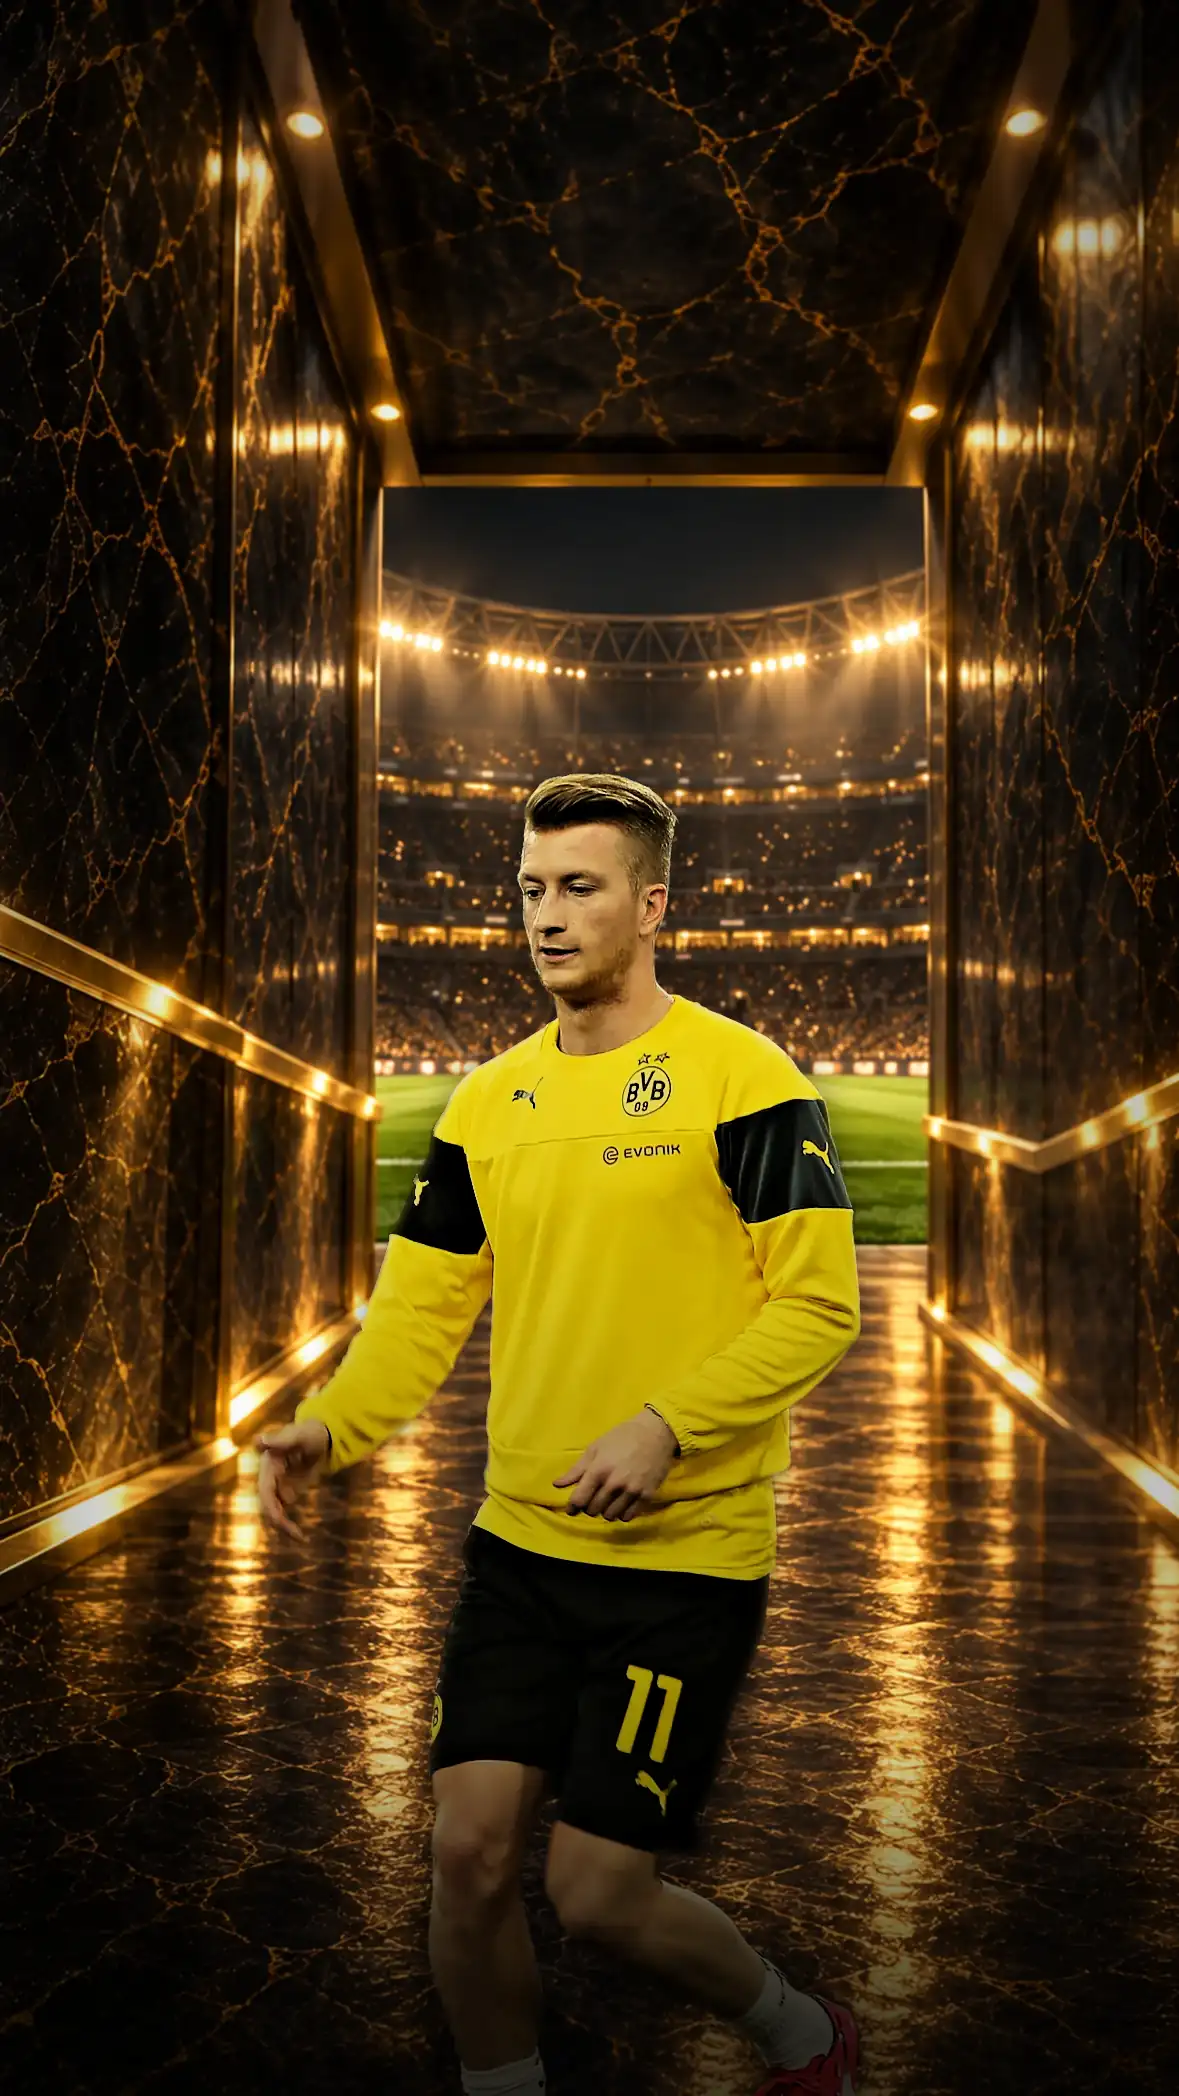
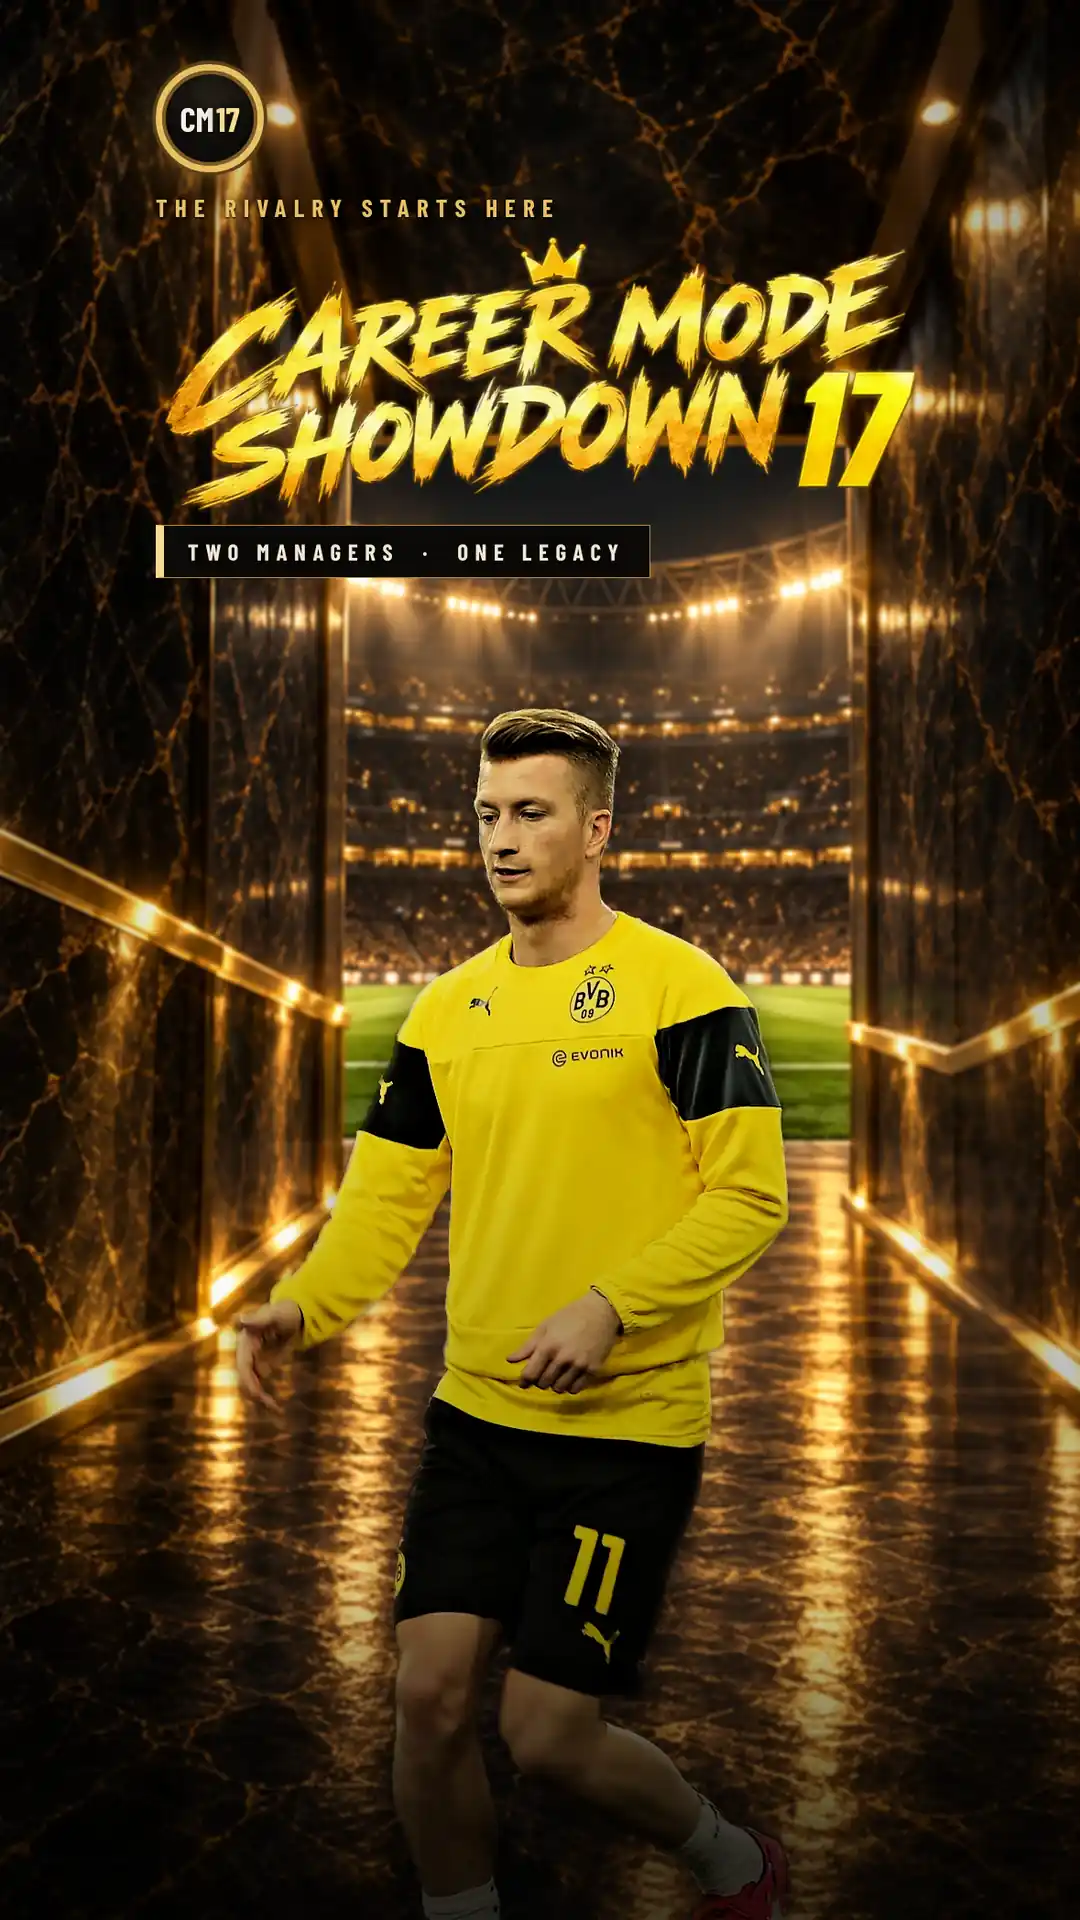
r78 loading: HO-030 v3 (title baked into the pictures, both under 95,000 B)
Fit Team V's v3 kit (factory/v1-wtt5ye @ 37746ac5): new desktop
(93,674 B) and phone (93,792 B, 1080x1920) pictures with the title block
baked in, .startupIdentity markup removed, portrait picture up to 7:5
(<source> and preloads), slim CSS v3 (1,430 B gzip). Startup gzip 37,071.

Test pins (title now lives in the picture; intent kept: the title shows
and is never cut or covered):
- loading-first-paint-audit / loading-visual-audit: measure the baked
  title box through object-fit/object-position instead of the old h1,
  roundel, kicker and edition; windowed 940x700 now shows the whole
  portrait picture (contain).
- offline-hotfix-contracts: wordmark-ratio pin becomes the v3 crop rule
  that keeps the baked title whole.
- v10-home-contracts test 8: <source> media 7/5.

Claude-Session: https://claude.ai/code/session_01S7YvhXS4sKBu2Nd5WxLWNf

diff --git a/css/app.css b/css/app.css
@@ -44,7 +44,7 @@ main{flex:1 1 auto;min-height:0;overflow-y:auto;overscroll-behavior:contain;disp
 .screen>h2{width:min(1040px,94vw);margin:0 auto 17px;padding:10px 16px 8px 20px;color:var(--f17-ink);background:rgba(247,249,249,.96);border-left:6px solid var(--f17-yellow);box-shadow:var(--f17-shadow-soft);font:800 clamp(28px,3.1vw,40px)/.9 var(--f17-display);letter-spacing:-.4px;text-align:left;text-transform:uppercase;}
 footer{flex:0 0 auto;min-height:33px;padding:7px 22px;color:#d7dfe4;background:linear-gradient(90deg,#252e35,#354149);border-top:2px solid rgba(240,217,0,.78);font-size:9px;line-height:1.2;letter-spacing:.55px;}
 
-@font-face{font-family:Startup;src:url(../visual-assets/v10_1/shared/fonts/barlow-condensed-latin-700-normal.woff2) format("woff2");font-weight:700;font-display:block}#loadingScreen{--k:max(100cqw/1920,100cqh/1080);--s:100cqh/1080;--fx:.25;--col:calc(var(--k)*1170 - (var(--k)*1920 - 100cqw)*var(--fx));--g:#e8c065;--h:#f6dc94;--i:#f1e9d6;position:fixed;inset:0;z-index:100;overflow:hidden;container-type:size;color:var(--i);font:700 14px/1.2 Startup,"Arial Narrow",Arial,sans-serif;white-space:nowrap;background:#0a0806;text-shadow:0 1px 2px #000,0 0 14px #000c;transition:opacity .24s}#loadingScreen.is-exiting{opacity:0;pointer-events:none}.startupScene,.startupAthleteFrame,#startupAthlete{position:absolute;inset:0}.startupAthleteFrame{background:linear-gradient(104deg,#18120b 48%,#0b0907 58%)}#startupAthlete{width:100%;height:100%;max-width:none;object-fit:cover;object-position:calc(var(--fx)*100%) 0}.startupIdentity,.startupStatus,.startupSaveNote,.startupPhotoCredit{position:absolute;z-index:5;left:var(--col)}.startupIdentity{top:calc(var(--s)*196);width:min(var(--s)*660,100cqw - var(--col) - 3cqw);display:grid;grid-template-columns:auto 1fr;grid-template-areas:"r r" "k k" "t t" "e e";justify-items:start;align-items:center;column-gap:12px}.startupRoundel{grid-area:r;box-sizing:border-box;width:max(40px,var(--s)*96);aspect-ratio:1;display:flex;align-items:center;justify-content:center;gap:.06em;border-radius:50%;border:max(2px,var(--s)*4) solid var(--g);background:#15120d;color:#f3efe6;font-size:max(14px,var(--s)*30);line-height:1}.startupRoundel strong{color:var(--h);font-weight:700}.startupKicker{grid-area:k;margin:calc(var(--s)*26) 0 0;color:var(--g);font-size:max(10px,var(--s)*21);letter-spacing:.34em}.startupIdentity h1{grid-area:t;position:relative;width:100%;margin:calc(var(--s)*10) 0 0;aspect-ratio:1040/378;font-size:0;background:url(../visual-assets/v10_1/home/assets/LOGO_CM17_WORDMARK_V1.webp) left/contain no-repeat}.startupEdition{grid-area:e;margin:calc(var(--s)*16) 0 0;padding:max(5px,var(--s)*11) max(10px,var(--s)*24);border:1px solid #b48a3a;border-left:max(3px,var(--s)*5) solid var(--h);background:#0b0a08;font-size:max(10px,var(--s)*21);letter-spacing:.3em}.startupStatus{bottom:calc(var(--s)*150);display:grid;grid-template-columns:auto 1fr;gap:max(6px,var(--s)*10) max(10px,var(--s)*18);align-items:center}.startupPulse{grid-row:span 2;height:max(18px,var(--s)*30);display:flex;align-items:flex-end;gap:max(2px,var(--s)*4);transform:skewX(-18deg)}.startupPulse i{width:max(3px,var(--s)*6);height:35%;background:var(--g)}.startupPulse i+i{height:60%}.startupPulse i+i+i{height:100%}.startupPulse i+i+i+i{height:72%}#loadingText,.startupSaveNote,.startupPhotoCredit{margin:0}#loadingText{font-size:max(11px,var(--s)*22);letter-spacing:.16em}.startupLoader{grid-column:2;position:relative;width:100%;max-width:26em;height:2px;overflow:hidden;background:#e8c06538}.startupLoader i{position:absolute;inset:0;width:38%;background:linear-gradient(90deg,#e8c06500,var(--h) 55%,var(--g));transform:translateX(-100%);animation:startupSweep 1.8s cubic-bezier(.45,0,.55,1) infinite}@keyframes startupSweep{to{transform:translateX(265%)}}.startupSaveNote{bottom:calc(var(--s)*104);color:var(--g);font-size:max(9px,var(--s)*16);line-height:1.3;letter-spacing:.3em}.startupPhotoCredit{left:auto;right:max(10px,1.4cqw);bottom:max(6px,1.3cqh);color:#e9e1cf;font:400 max(9px,var(--s)*14)/1.35 Arial,sans-serif;letter-spacing:.02em;text-shadow:0 1px 2px #000}.startupPhotoCredit a{color:inherit;text-decoration:none}@media (max-height:500px) and (min-aspect-ratio:3/2){.startupIdentity{top:max(12px,var(--s)*120);grid-template-areas:"r k" "t t" "e e"}.startupKicker{margin:0}.startupStatus{bottom:max(40px,var(--s)*150)}.startupSaveNote{bottom:max(22px,var(--s)*96)}}@media (min-aspect-ratio:1201/1000) and (max-aspect-ratio:3/2){#loadingScreen{--fx:.55}.startupKicker{letter-spacing:.24em}.startupEdition{letter-spacing:.18em;padding-inline:max(8px,var(--s)*16)}#loadingText{font-size:max(11px,var(--s)*19);letter-spacing:.1em}.startupSaveNote{letter-spacing:.2em}}@media (max-aspect-ratio:6/5){#loadingScreen{--k:min(100cqw/1179,100cqh/2096);--s:var(--k)*1.3;--col:calc((100cqw - var(--k)*1179)/2 + var(--k)*77)}.startupAthleteFrame{background:#120e09}#startupAthlete{object-fit:contain;object-position:50% 0}.startupIdentity,.startupStatus,.startupSaveNote,.startupPhotoCredit{right:var(--col)}.startupIdentity{top:calc(var(--k)*70);width:auto}.startupKicker{margin-top:calc(var(--k)*22);letter-spacing:.3em}.startupIdentity h1{width:min(100%,var(--k)*900)}.startupEdition{margin-top:calc(var(--k)*14);font-size:max(10px,var(--k)*25);padding:max(5px,var(--k)*13) max(10px,var(--k)*26)}.startupStatus{bottom:max(70px,var(--k)*205)}#loadingText{letter-spacing:.12em;white-space:normal}.startupSaveNote{bottom:max(44px,var(--k)*130)}.startupPhotoCredit{left:var(--col);bottom:max(12px,var(--k)*44);white-space:normal}}@media (max-aspect-ratio:31/50){#loadingScreen{--k:max(100cqw/1179,100cqh/2096);--col:max(16px,6.5cqw)}#startupAthlete{object-fit:cover}}html[data-motion-reduced=true] .startupLoader i{animation:none!important;width:100%;transform:none}@media (prefers-reduced-motion:reduce){#loadingScreen .startupLoader i{animation:none!important;width:100%;transform:none}#loadingScreen{transition:none}}
+@font-face{font-family:Startup;src:url(../visual-assets/v10_1/shared/fonts/barlow-condensed-latin-700-normal.woff2) format("woff2");font-weight:700;font-display:block}#loadingScreen{--k:max(100cqw/1920,100cqh/1080);--s:100cqh/1080;--ox:max(0px,var(--k)*1860 - 100cqw);--col:calc(var(--k)*1170 - var(--ox));--g:#e8c065;--h:#f6dc94;--i:#f1e9d6;position:fixed;inset:0;z-index:100;overflow:hidden;container-type:size;color:var(--i);font:700 14px/1.2 Startup,"Arial Narrow",Arial,sans-serif;white-space:nowrap;background:#0a0806;text-shadow:0 1px 2px #000,0 0 14px #000c;transition:opacity .24s}#loadingScreen.is-exiting{opacity:0;pointer-events:none}.startupScene,.startupAthleteFrame,#startupAthlete{position:absolute;inset:0}.startupAthleteFrame{background:linear-gradient(104deg,#18120b 48%,#0b0907 58%)}#startupAthlete{width:100%;height:100%;max-width:none;object-fit:cover;object-position:calc(0px - var(--ox)) 0}.startupIdentity{display:none}.startupStatus,.startupSaveNote,.startupPhotoCredit{position:absolute;z-index:5;left:var(--col)}.startupStatus{bottom:calc(var(--s)*150);display:grid;grid-template-columns:auto 1fr;gap:max(6px,var(--s)*10) max(10px,var(--s)*18);align-items:center}.startupPulse{grid-row:span 2;height:max(18px,var(--s)*30);display:flex;align-items:flex-end;gap:max(2px,var(--s)*4);transform:skewX(-18deg)}.startupPulse i{width:max(3px,var(--s)*6);height:35%;background:var(--g)}.startupPulse i+i{height:60%}.startupPulse i+i+i{height:100%}.startupPulse i+i+i+i{height:72%}#loadingText,.startupSaveNote,.startupPhotoCredit{margin:0}#loadingText{font-size:max(11px,var(--s)*22);letter-spacing:.16em}.startupLoader{grid-column:2;position:relative;width:100%;max-width:26em;height:2px;overflow:hidden;background:#e8c06538}.startupLoader i{position:absolute;inset:0;width:38%;background:linear-gradient(90deg,#e8c06500,var(--h) 55%,var(--g));transform:translateX(-100%);animation:startupSweep 1.8s cubic-bezier(.45,0,.55,1) infinite}@keyframes startupSweep{to{transform:translateX(265%)}}.startupSaveNote{bottom:calc(var(--s)*104);color:var(--g);font-size:max(9px,var(--s)*16);line-height:1.3;letter-spacing:.3em}.startupPhotoCredit{left:auto;right:max(10px,1.4cqw);bottom:max(6px,1.3cqh);color:#e9e1cf;font:400 max(9px,var(--s)*14)/1.35 Arial,sans-serif;letter-spacing:.02em;text-shadow:0 1px 2px #000}.startupPhotoCredit a{color:inherit;text-decoration:none}@media (max-height:500px) and (min-aspect-ratio:3/2){.startupStatus{bottom:max(40px,var(--s)*150)}.startupSaveNote{bottom:max(22px,var(--s)*96)}}@media (min-aspect-ratio:7/5) and (max-aspect-ratio:3/2){#loadingText{font-size:max(11px,var(--s)*19);letter-spacing:.1em}.startupSaveNote{letter-spacing:.2em}}@media (max-aspect-ratio:7/5){#loadingScreen{--k:min(100cqw/1179,100cqh/2096);--s:var(--k)*1.3;--col:calc((100cqw - var(--k)*1179)/2 + var(--k)*170)}.startupAthleteFrame{background:#120e09}#startupAthlete{object-fit:contain;object-position:50% 0}.startupStatus,.startupSaveNote,.startupPhotoCredit{right:var(--col)}.startupStatus{bottom:max(70px,var(--k)*205)}#loadingText{letter-spacing:.12em;white-space:normal}.startupSaveNote{bottom:max(44px,var(--k)*130)}.startupPhotoCredit{left:var(--col);bottom:max(12px,var(--k)*44);white-space:normal}}@media (max-aspect-ratio:31/50){#loadingScreen{--k:max(100cqw/1179,100cqh/2096);--col:max(16px,6.5cqw)}#startupAthlete{object-fit:cover}}html[data-motion-reduced=true] .startupLoader i{animation:none!important;width:100%;transform:none}@media (prefers-reduced-motion:reduce){#loadingScreen .startupLoader i{animation:none!important;width:100%;transform:none}#loadingScreen{transition:none}}
 
 .menuButton,.backButton,.compactButton,.menuMusicControl,.menuMediaChoice{border:0;cursor:pointer;font-family:var(--f17-display);font-weight:700;text-transform:uppercase;}
 .menuButton{width:100%;min-height:52px;padding:10px 18px;color:#fff;background:var(--f17-ink-2);border-left:5px solid var(--f17-cyan);letter-spacing:1.35px;font-size:17px;transition:transform 90ms ease,background-color 90ms ease,color 90ms ease;}

diff --git a/index.html b/index.html
@@ -7,8 +7,8 @@
 <title>Career Mode Showdown</title>
 <link rel="preconnect" href="https://fonts.googleapis.com">
 <link rel="preconnect" href="https://fonts.gstatic.com" crossorigin>
-<link rel="preload" as="image" href="assets/LOADING_REUS_PHONE.webp?v=1.9.1-r77" media="(max-aspect-ratio: 6/5)" fetchpriority="high">
-<link rel="preload" as="image" href="assets/LOADING_REUS_DESKTOP.webp?v=1.9.1-r77" media="not all and (max-aspect-ratio: 6/5)" fetchpriority="high">
+<link rel="preload" as="image" href="assets/LOADING_REUS_PHONE.webp?v=1.9.1-r77" media="(max-aspect-ratio: 7/5)" fetchpriority="high">
+<link rel="preload" as="image" href="assets/LOADING_REUS_DESKTOP.webp?v=1.9.1-r77" media="not all and (max-aspect-ratio: 7/5)" fetchpriority="high">
 <link rel="stylesheet" href="https://fonts.googleapis.com/css2?family=Barlow+Condensed:wght@600;700;800&display=swap">
 <link rel="stylesheet" id="appStyles" href="css/app.css?v=1.9.1-r77">
 </head>
@@ -20,16 +20,10 @@
 <div class="startupScene" aria-hidden="true">
 <div class="startupAthleteFrame">
 <picture>
-<source media="(max-aspect-ratio: 6/5)" srcset="assets/LOADING_REUS_PHONE.webp?v=1.9.1-r77" width="1179" height="2096">
+<source media="(max-aspect-ratio: 7/5)" srcset="assets/LOADING_REUS_PHONE.webp?v=1.9.1-r77" width="1179" height="2096">
 <img id="startupAthlete" src="assets/LOADING_REUS_DESKTOP.webp?v=1.9.1-r77" width="1920" height="1080" alt="" decoding="async" fetchpriority="high">
 </picture>
 </div>
-</div>
-<div class="startupIdentity" aria-hidden="true">
-<div class="startupRoundel"><span>CM</span><strong>17</strong></div>
-<p class="startupKicker">THE RIVALRY STARTS HERE</p>
-<h1><span>CAREER MODE</span><strong>SHOWDOWN <em>17</em></strong></h1>
-<p class="startupEdition">TWO MANAGERS&nbsp;&nbsp;·&nbsp;&nbsp;ONE LEGACY</p>
 </div>
 <div class="startupStatus">
 <div class="startupPulse" aria-hidden="true"><i></i><i></i><i></i><i></i></div>
